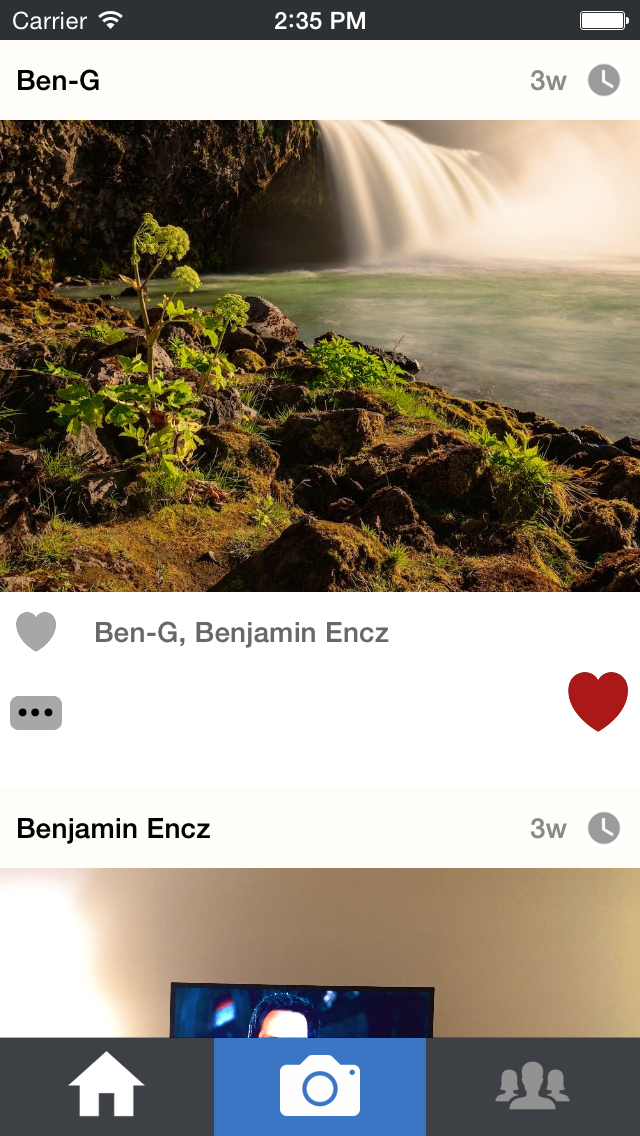
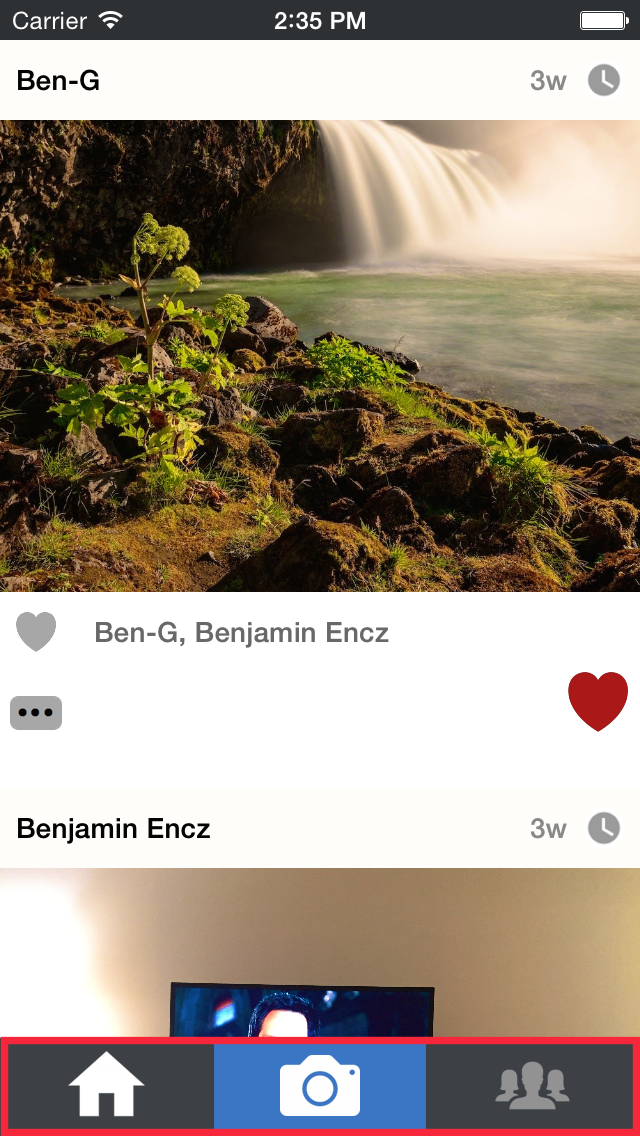
[P0, P2, P3, P5, P6] Curriculum Revisions
* P0
  - minor grammar changes

* P2
  - minor grammar changes

* P3
  - minor grammar changes

* P5
  - add link to Apple view lifecycle docs

* P6
  - remake app_structure.png
  - modify tab_bar_example.png
  - move all `UITabBarController` intro material to line 17
  - add tech details on `Initial View Controller`

* All
  - remove reference to "I"
  - uncapitalize all UI elements (Tab Bar -> tab bar)
  - bold (instead of italicized) project references (*Makestagram* -> **Makestagram**

Changed region(s): [[0.0, 0.8935, 1.0, 1.0]]

diff --git a/P6-Setup-App-Structure/content.md b/P6-Setup-App-Structure/content.md
@@ -1,63 +1,68 @@
 ---
-title: "Setting up the App Structure With a UITabBarController"
+title: "Setting up the App Structure"
 slug: setup-app-structure-uitabbarcontroller
 ---
 
-In this section we're going to set up the basic structure of our app. While building the *Make School Notes* app, you have learnt about *Container View Controllers*.
-
-Just as a short reminder: Container View Controllers are View Controllers that can present other View Controllers. Most apps have at least one such a Container View Controller. In *Make School Notes* we used a `UINavigationController` as container. It allowed us to *push* and *pop* View Controllers.
-
-iOS provides another very popular Container View Controller: the `UITabBarController`. Using a `UINavigationController` the user typically navigates between different View Controllers by selecting items from `UITableView`s, such as Apple's *Mail* app, or as in *Make School Notes*.
-
-Using a `UITabBarController`, the user switches between different View Controllers by selecting one of the Tab Bar Items in a Tab Bar. Below is a screenshot from the finished *Makestagram* app that contains a Tab Bar:
-![image](tab_bar_example.png)
-
-The user can switch between the timeline, taking a photo, or finding friends, by selecting the respective button from the Tab Bar.
-
-Many apps use multiple types of Container View Controllers in one App. We will see how that approach works when we add the image filter feature to the *Makestagram* app later on.
-
-#The App Structure
-
-One of the first steps, once you have collected all the features you want to be part of your app, should be drawing an outline of the different screens that your app will contain. This outline should include connections between the different screens.
-
-For *Makestagram* I've created this overview, that breaks down the entire app into View Controllers:
+Once you have decided on your app's features, your next step should be to outline your apps structure. The outline should contain all the screens in your app, and should include how they will be connected. For **Makestagram**, the outline would look like this:
 
 ![image](app_structure.png)
 
-I highly recommend you come up with a similar diagram before writing code for your original app - it will give you a very good idea of how much effort it will take to build your app. With this overview at hand, let's dive into the action of creating a bunch of these View Controllers.
+You should come up with a similar diagram before writing code for your original app - it will give you a better idea of how much effort it will take to build your app.
 
-#Setting the UITabBarController up
+#Another Container View Controller: The UITabBarController
 
-As mentioned earlier, we will skip the login screen for now. That means that the `UITabBarController` is the first View Controller we need to add to our app. We also want the Tab Bar Controller to be the initial View Controller of our app.
+In this section, we're going to set up the basic structure of our app, starting with a *container view controller*, a view controller that can present other view controllers.
 
-The Xcode project template has a simple `UIViewController` as its initial View Controller.
-Let's first go ahead and delete it.
+In **Make School Notes** we  used a `UINavigationController` as our container view controller, which allowed us to drill down on content by *pushing* and *popping* view controllers.
+
+In **Makestagram**, we will be using another popular container view controller called the `UITabBarController`. The `UITabBarController` contains a *tab bar* and *tab bar items*. Each tab bar item is connected to a specifc view controller, tapping a tab bar item displays the appropriate view controller.  Below is a screenshot from the finished **Makestagram** app that contains a tab bar (the tab bar is enclosed by a red rectangle) and three tab bar items (home, camera, friends):
+
+![image](tab_bar_example.png)
+
+By selecting the appropriate tab bar item, a user can switch between the Timeline Screen, Photo Capture Screen, and Friends Search Screen.
+
+It is common to see multiple types of container view controllers in a single app - we will explore this idea when adding the image filter feature to **Makestagram** later on.
+
+#Setting Up the UITabBarController
+
+Since we won't be adding the login screen until later, the first screen we need to setup is our Tab Bar Screen.
+
+The **Makestagram** project template that you downloaded earlier currently has one screen, a simple `UIViewController`. We don't need that screen, so let's go ahead and delete it.
 
 > [action]
-Open *Main.storyboard*. Select the existing View Controller; after you have selected it you should see a blue border surrounding it:
+Open *Main.storyboard*. Select the existing view controller; after you have selected it you should see a blue border surrounding it:
 ![image](selected_vc.png)
 >
-Hit the *delete* key to remove this View Controller. Now you should see a blank Storyboard:
+Hit the *delete* key to remove this view controller. Now you should see a blank storyboard:
 ![image](blank_storyboard.png)
+
+Let's also delete the screen's accompanying source file called *ViewController.swift*.
+
+> [action]
+Delete the *ViewController.swift* file:
+![image](delete_vc.png)
+![image](delete_vc_trash.png)
 
 Now we can add the `UITabBarController`.
 
 > [action]
-Drag the `UITabBarController` from the component library into the Storyboard:
+Drag the `UITabBarController` from the component library into the storyboard:
 ![image](add_tab_bar.png)
 
-Now we have set up the Container View Controller for our app - time to run it?
+We have now set up the container view controller for our app - time to run it?
 
-If you run the app now, you will see a blank, black screen, after the splash image disappears. You will also see the following error in the console:
+If you run the app now, after the splash image disappears, you will see a blank black screen. You will also see the following error in the console:
 
 > Makestagram[76593:9371786] Failed to instantiate the default view controller for UIMainStoryboardFile 'Main' - perhaps the designated entry point is not set?
 
-**Why are you seeing this error?**
+**Why Are We Seeing This Error?**
 
-Every app needs to define an *initial View Controller*. Our app doesn't have one right now - we have deleted the default View Controller, and haven't set the Tab Bar Controller as the initial one. Let's fix that.
+When working with storyboards, we have to designate an entry point, or more simply, we have to tell UIKit (the Apple framwork which handles manipulating the user interface) what view controller should appear first (we call this view controller the *Initial View Controller*). When the compiler doesn't know which view controller to show first (a.k.a. when the entry point is not set), it defaults to showing an empty black screen.
+
+We are seeing this error because the `UIViewController` that we initially deleted from the project was set as the Initial View Controller, and after deleting it, we never set another view controller to be the new Initial View Controller. Let's fix this error by assigning our tab bar controller as the Initial View Controller.
 
 > [action]
-Configure the Tab Bar Controller to be our app's initial View Controller. First select the *Attributes Inspector* in the right bar (1). Then check the *is Initial View Controller* checkbox (2). As a confirmation you should see an arrow pointing to the Tab Bar View Controller (3):
+Configure the tab bar controller to be our app's Initial View Controller. First select the *Attributes Inspector* in the right bar (1). Then check the *is Initial View Controller* checkbox (2). As a confirmation you should see an arrow pointing to the Tab Bar View Controller (3):
 ![image](initial_vc.png)
 
 Great! When you run the app now, you should see a tab bar with two items:
@@ -65,25 +70,23 @@ Great! When you run the app now, you should see a tab bar with two items:
 
 #Adding a Third View Controller to the Tab Bar
 
-The default Tab Bar comes with two View Controllers. Our outline shows that we need three View Controllers in the Tab Bar for *Makestagram*. Let's add that third View Controller.
+The default tab bar comes with two view controllers; however, we need three view controllers for **Makestagram**. Lets add the third view controller now.
 
 > [action]
-Add a third View Controller, as shown in the video below. Note that the key you need to hold down is the *control* key which has the following symbol: ⌃
+Add a third view controller, as shown in the video below. Note that the key you need to hold down is the *control* key which has the following symbol: ⌃
 <video width="100%" controls>
   <source src="https://s3.amazonaws.com/mgwu-misc/SA2015/AddViewController_TabBar_Small.mov" type="video/mp4">
 </video>
 
-Now we have all required View Controllers set up.
+We now have all of the required view controllers set up!
 
 #Decorating the Tab Bar Items
 
-The empty Tab Bar looks pretty sad - let's add an image to each Tab Bar Item. That will also make it easier to identify the different tabs.
-
-Currently the Tab Bar has three entries and looks like this:
+Currently the tab bar has three entries and looks like this:
 
 ![image](tab_bar.png)
 
-Each of these three entries is called a *Tab Bar Item*. Every View Controller that has a relationship to a Tab Bar View Controller owns one such a *Tab Bar Item*. The Tab Bar Items are named rather generically right now (*Item 1*, *Item 2*, etc.). Instead of names, we will use icons to decorate our *Tab Bar Items*.
+The empty tab bar looks pretty bad, so let's add an image to each tab bar item to make things look nicer. (Images will also have the benefit of making it easier to identify the different tabs.)
 
 > [action]
 [Download the art pack for this tutorial!](https://s3.amazonaws.com/mgwu-misc/SA2015/Makestagram_Art.zip)
@@ -91,9 +94,10 @@ Each of these three entries is called a *Tab Bar Item*. Every View Controller th
 ##Adding Assets to an App
 
 Now it's time to add some of these assets you just downloaded to our app. All assets used within an iOS app are stored in *Asset catalogs*. Every iOS projects that you create with Xcode comes with one default asset catalog called *Images.xcassets*:
+
 ![image](asset_catalog.png)
 
-That asset catalog contains one resource for the App's icon. You add new resources to your app by creating new entries in this asset catalog. You can also create multiple asset catalogs which is useful for apps with huge amounts of images.
+That asset catalog contains one resource for the App's icon. You add new resources to your app by creating new entries (called *Image Sets*) in this asset catalog. You can also create multiple asset catalogs which is useful for apps with huge amounts of images.
 
 Let's add our first images to our app!
 > [action]
@@ -107,11 +111,11 @@ Repeat these steps for the *Home* and *People* assets, so that all Tab Bar Item 
 
 Let's briefly discuss some important concepts about asset handling on iOS. You probably have realized that we're providing three different image files for each asset we wanted to use in our App (*@1x*, *@2x* and *@3x*). These different images have different resolutions, each suited to a specific type of iOS devices with a different screen resolution. The *@1x* assets are used for the oldest iOS devices, e.g. iPhone 3Gs, which don't have retina displays. The *@2x* images are used for the 3.5 and 4 inch retina screens of the iPhone 4(S) and iPhone 5(S). Finally, the *@3x* images are used by the iPhone 6 and iPhone 6 Plus. In most cases you won't have to spend too much time thinking about this, as long as you provide assets in all relevant resolutions.
 
-You should also note that we don't reference images in asset catalogs by their file name, but instead by the name of the *Image Set* they belong to. In our example our assets are called *Camera*, *People* and *Home*.
+You should also note that we don't reference images in asset catalogs by their file name, but instead by the name of their Image Set. In our example, our image sets are called *camera*, *people* and *home*.
 
 ##Assigning Images to Tab Bar Items
 
-We've added assets to our app; now we can assign them to our Tab Bar Items.
+Now that we have added images to our app, we can assign them to our tab bar items.
 
 When we're done, the Tab Bar should look like this:
 
@@ -126,27 +130,27 @@ Let's set the images up!
 2. Select the View Controller's Tab Bar Item
 3. Open the *Attributes Inspector* in the right panel
 4. Erase the Item *Title*
-5. Set the Item *Image* to *Home*, *Camera* or *People*, depending on which View Controller you are currently setting up
+5. Set the Item *Image* to *home*, *camera* or *people*, depending on which View Controller you are currently setting up
 >
 ![image](setup_tab_bar_item.png)
 
-Now we have images on each Tab Bar item - but something doesn't look quite right. The images aren't vertically centered. That's because iOS reserves some space below the image for the *Title* of the Tab Bar Item. For *Makestagram* we don't need titles, instead we want the images to be centered. We can accomplish that by adjusting the *Image Inset* for each Tab Bar Item.
+Now we have images on each Tab Bar item - but something doesn't look quite right. The images aren't vertically centered. That's because iOS reserves some space below the image for the *Title* of the Tab Bar Item. For **Makestagram** we don't need titles, instead we want the images to be centered. We can accomplish that by adjusting the *Image Inset* for each Tab Bar Item.
 
 > [action]
-**Repeat the following steps for all three View Controllers**:
+**Repeat the following steps for all three view controllers**:
 >
-1. With the Tab Bar Item selected, open the *Size Inspector* on the right panel
+1. With the tab bar item selected, open the *Size Inspector* on the right panel
 2. Set the *Image Insets* as following:
       - *Top*: 5
       - *Bottom*: -5
 >
 ![image](tab_bar_item_insets.png)
 
-Now all of your Tab Bar Items should have images that are nicely centered.
+Now all of your tab bar items should have images that are nicely centered.
 
 ##Reordering Tab Bar Items
 
-Just in case you didn't set up the View Controllers in the correct order, I want to show you how you can reorder them. Select the Tab Bar View Controller in Storyboard, then simply drag the Tab Bar Items to rearrange them:
+Just in case you didn't set up the view controllers in the correct order, I want to show you how you can reorder them. Select the tab bar view controller in your storyboard, then simply drag the tab bar items to rearrange them:
 
 <video width="100%" controls>
   <source src="https://s3.amazonaws.com/mgwu-misc/SA2015/ReorderTabBarItems_small.mov" type="video/mp4">
@@ -156,15 +160,7 @@ Now we have a nice looking Tab Bar that connects to the three View Controllers o
 
 #Creating Classes for our View Controllers
 
-To complete this whole scaffolding section, let's create the Source Code Files for all three View Controllers that we will be working on throughout this tutorial.
-
-As a very first step, let's delete View Controller that is part of the template project:
-> [action]
-Delete the *ViewController.swift* file:
-![image](delete_vc.png)
-![image](delete_vc_trash.png)
-
-Now we can create the three View Controllers for this project. We'll add them to the  *ViewControllers* group to keep this project nicely structured.
+To finish this section, let's create the Source Code Files for all three View Controllers that we will be working on throughout this tutorial. We'll add them to the  *ViewControllers* group to keep this project nicely structured.
 
 > [action]
 Create the `TimelineViewController` class as a subclass of `UIViewController` as shown in the video below:
@@ -194,6 +190,6 @@ The last setup step that remains, is connecting the classes that we just created
 
 #Wrapping up
 
-Now we have set up the basic structure of our App! You should have three Tab Bar Items with Icons, connected to three View Controllers in Storyboard, each backed by a corresponding Source Code file.
+Congratulations! We have now set up the basic structure of **Makestagram**! You should have three tab bar items with icons, connected to three view controllers in your storyboard, each backed by a corresponding Swift file.
 
 We're ready to implement our first Feature: **Uploading photos!**

diff --git a/P5-Connecting-to-Parse/content.md b/P5-Connecting-to-Parse/content.md
@@ -11,7 +11,7 @@ To set up the Parse SDK we will first need to answer the following question: *Wh
 
 #Configuring the SDK on App Launch
 
-Every iOS project gets created with class called `AppDelegate`. This class has multiple methods that get called when our App starts, is put in the background or is closed. Whenever we want to respond to such *lifecycle* events, the `AppDelegate` is the right place to add our code. If you open the *AppDelegate.swift* file, that is part of the *Makestagram* project, you will see the different methods that are part of the `AppDelegate`. Apple also provides some helpful comments about the responsibilities of each method. For now, we are mainly interested in the following method:
+Every iOS project gets created with a class called `AppDelegate`. This class has methods that get called when our app is started, put into the background, or closed. These actions (starting, going into the background, and closing), are referred to as *lifecycle* events.  Whenever we want to respond to such events, the `AppDelegate` is the right place to add our code. If you open the *AppDelegate.swift* file, which is part of the *Makestagram* project, you will see the different lifecycle methods. If you are curious about the responsibilities of each of these methods, checkout this Apple [documentation](https://developer.apple.com/library/ios/documentation/iPhone/Conceptual/iPhoneOSProgrammingGuide/TheAppLifeCycle/TheAppLifeCycle.html). For now, we are mainly interested in the following method:
 
     func application(application: UIApplication, didFinishLaunchingWithOptions launchOptions: [NSObject: AnyObject]?) -> Bool {
       // Override point for customization after application launch.
@@ -19,7 +19,7 @@ Every iOS project gets created with class called `AppDelegate`. This class has m
       return true
     }
 
-This is the method that is called as soon as our App starts. Here we need to add the code to configure the Parse SDK. The SDK can be configured with one simple method call.
+This method is called as soon as our app starts - this is where we need to add the code to configure the Parse SDK. The SDK can be configured with one simple method call.
 
 > [action]
 Add an import statement (`import Parse`) to import the Parse SDK into the `AppDelegate`. Then add a method call to `Parse.setApplicationID` into the `application(application:didFinishLaunchingWithOptions:launchOptions:)` method. The result should look like this:
@@ -65,9 +65,7 @@ Now we should be ready to work with Parse SDK! In a moment we will see if you've
 
 All features in *Makestagram*, e.g. posting photos, following friends, etc. will require a logged in user. This means that before we can start building our actual app, we need a way for a user to log in.
 
-I however don't want to start this tutorial with building a login screen. For now we should provide a fake login mechanism so that we can start working on the core features of the app.
-
-Later in this tutorial we will spend some time building a full login mechanism, including login with a Facebook account.
+For now, we are going to provide a fake login mechanism so that we can start working on the core features of the app. (Later in this tutorial we will spend some time building a full login mechanism, including login with a Facebook account.)
 
 Implementing a fake login mechanism involves two steps:
 
@@ -91,8 +89,8 @@ Extend the `AppDelegate` to log in with our test credentials. We'll also add an 
 >
       PFUser.logInWithUsername("test", password: "test")
 >
-      if let user = PFUser.currentUser() {
-        println("Log in successful")
+      if let currentUser = PFUser.currentUser() {
+        println("\(currentUser.username!) logged in successfully")
       } else {
         println("No logged in user :(")
       }

diff --git a/P2-Data-Model/content.md b/P2-Data-Model/content.md
@@ -19,11 +19,9 @@ This is the detailed list of features our app will have:
 
 You know most of the features from popular social network apps. You might wonder why include *flagging* content in this simple photo sharing app. We include it, because it's an important feature to get your app into Apple's App Store. Apple requires apps with user created content to have a *flag* feature - this way users can report inappropriate content. Since you will likely need this feature in your original app, we have included it as part of the tutorial.
 
-Through building this app you will learn how to use Parse and many iOS features to build a rather complex application. That will enable you to build your own apps when you have completed the tutorial.
-
 #Finding the Classes in Our App
 
-Now that we know which features our app will have, how can we derive a data model?
+Now that we know which features our app will have, how can we build a data model?
 
 Typically the first step in defining a data model is finding different classes that are involved in our features.
 
@@ -75,7 +73,7 @@ The diagram above illustrates the different classes, their most important proper
 Let's discuss them briefly:
 
 - **User**
-A new *User* class is created whenever a user signs up. The *username* will store the user's display name: this name is used to log in and it displayed in the app when the user creates posts or likes other posts.
+A new *User* class is created whenever a user signs up. The *username* will store the user's display name: this name is used to log in and is displayed in the app when the user creates posts or likes other posts.
 
 - **Post**
 A *Post* class is created whenever a user posts a new photo. The most important properties of a post are the *user* it belongs to and the *imageFile* stored along with the post.
@@ -84,7 +82,7 @@ A *Post* class is created whenever a user posts a new photo. The most important 
 Marks which posts have been flagged. It stores a reference to the *post* that is flagged and the *user* that has flagged it.
 
 - **Like**
-Works just as *FlaggedContent*; stores a reference to the *post* that is like and the *user* that has liked it.
+Works just as *FlaggedContent*; stores a reference to the *post* that is liked and the *user* that has liked it.
 
 - **Follow**
 Stores a following relationship between two users. The *toUser* field stores the user being followed, the *fromUser* user field stores the following user.

diff --git a/P0-Getting-Started/content.md b/P0-Getting-Started/content.md
@@ -5,21 +5,19 @@ slug: getting-started
 
 Throughout this tutorial you will build a photo sharing app that is similar to the popular app  [Instagram](https://instagram.com/). After finishing the *Make School Notes* tutorial you should have a good understanding of the basics of iOS development.
 
-In this tutorial we will touch many advanced iOS development topics and you will also learn how to use [Parse](https://parse.com) to build a backend for your app.
+In this tutorial, we will touch many advanced iOS development topics, including how to use [Parse](https://parse.com) to build a backend for your app.
 
 Here are the most important things you will learn throughout this tutorial:
 
-- How to define a data model for your app using Parse
-- How to implement a login for your app using Parse and Facebook
+- How to define a data model using Parse
+- How to implement a login using Parse and Facebook
 - How to capture photos and upload them to Parse
 - How to perform work in the background to keep your user interface responsive
 - How to build complex Parse queries
 - How to structure a complex iOS app
 - How to use libraries built by other developers to speed up development
 
-We will touch many more topics, but this is an outline of the biggest chunks of skills you will gain through this tutorial.
-
-By the end of it you will have a good understanding of building complex iOS apps that tie into a backend - from there you will be able to move on and create your original iPhone App!
+After finishing the tutorial, you will have a good understanding of building complex iOS apps that tie into a backend - from there you will be able to move on and create your original iPhone App!
 
 Here's a video that will give you a brief overview of what you will be learning:
 

diff --git a/P3-Create-Data-Model-Parse/content.md b/P3-Create-Data-Model-Parse/content.md
@@ -16,7 +16,7 @@ First, select the *Add Class* button on the left hand side to create your first 
 >
 ![image](add_class.png)
 
-Next, you will see a popup that allows you to choose the type of your class. 
+Next, you will see a popup that allows you to choose the type of your class.
 
 > [action]
 Select the *User* class from the dropdown and hit *create Class*:
@@ -74,7 +74,7 @@ Now you should see the new *imageFile* column in the data browser:
 
 Now it's time to add the *user* column. Unlike the *imageFile* column the *user* column is not intended to store actual data - instead it stores a reference (or relationship) to an existing *user* object.
 
-For such use cases Parse provides the *Pointer* column type. A pointer column allows us to store a reference to another Parse object.
+For such use cases, Parse provides the *Pointer* column type. A pointer column allows us to store a reference to another Parse object.
 
 > [action]
 Hit the *+Col* button to create a new column, just as in the step before. Then choose this column to be a *Pointer*. Additionally Parse will ask you *which* class this pointer is pointing to. Choose the *_User* class (the underscore in the class name indicates that this class was generated by Parse). Finally, name the column *user* and hit the *Create Column* button:
